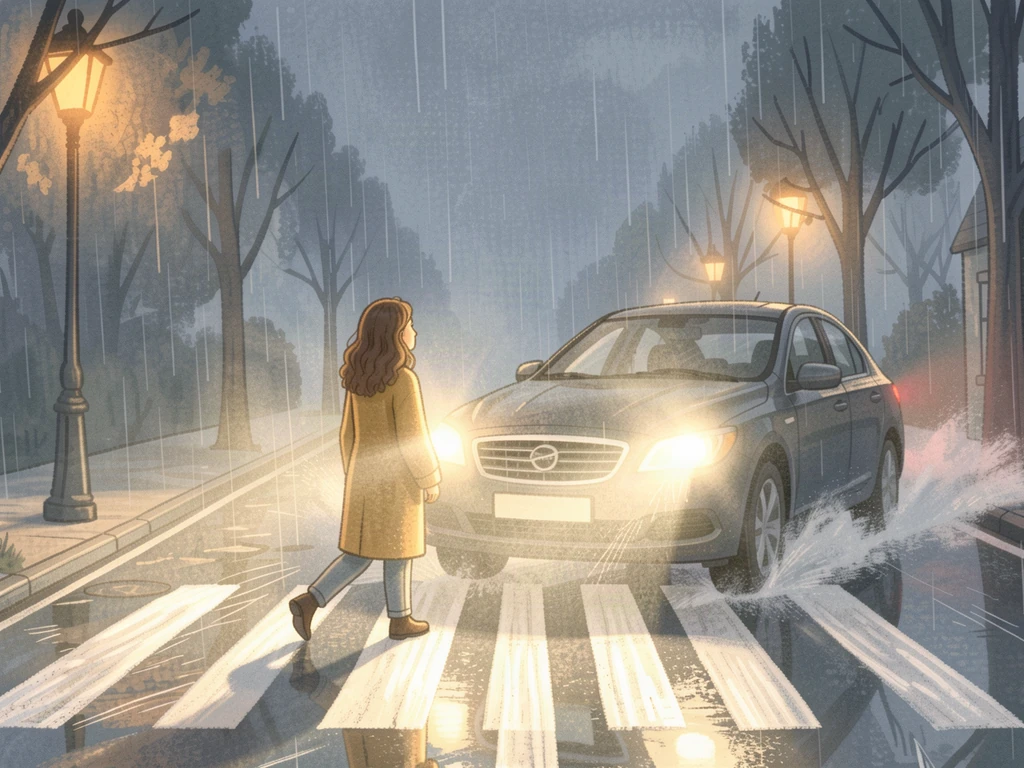
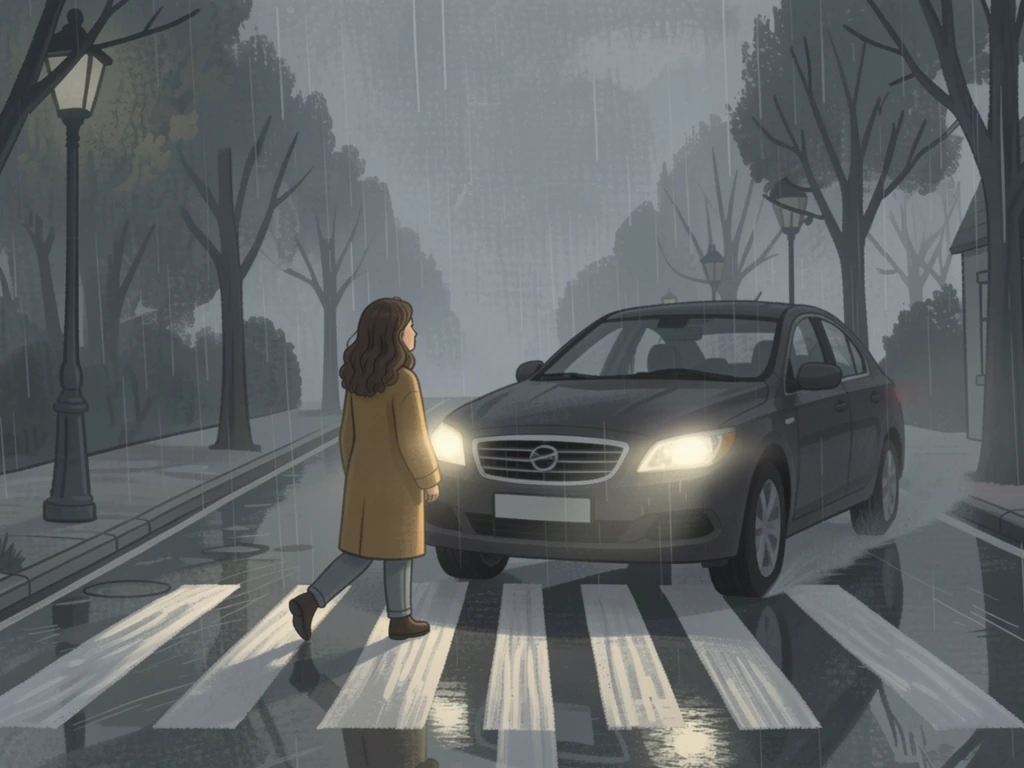
beta3: stage5 girl matches Elena, softer headlights, riddle removed, serif finale panel

diff --git a/beta/index.html b/beta/index.html
@@ -2,6 +2,7 @@
 <html lang="sk">
 <head>
 <meta charset="utf-8">
+<link rel="preconnect" href="https://fonts.googleapis.com"><link rel="preconnect" href="https://fonts.gstatic.com" crossorigin><link href="https://fonts.googleapis.com/css2?family=Cormorant+Garamond:wght@500;600;700&family=Lora:ital,wght@0,400;0,500;1,400&display=swap" rel="stylesheet">
 <meta name="viewport" content="width=device-width,initial-scale=1,viewport-fit=cover">
 <meta name="theme-color" content="#0d0b14">
 <title>Kým sa zobudím / Until I Wake — beta 3</title>
@@ -54,18 +55,25 @@ h1 small{display:block;font-size:.42em;color:#a99bbd;letter-spacing:.22em;text-t
   font:inherit;font-size:16px;font-weight:600;cursor:pointer}
 .ghost{margin-top:10px;background:none;border:1px solid #453b58;color:#c3b7d4;border-radius:12px;
   padding:12px 24px;font:inherit;font-size:14px;cursor:pointer}
-#end{align-items:flex-start;justify-content:flex-end;padding:22px}
-#endInner{max-width:min(470px,94vw);background:rgba(10,9,16,.85);border-radius:18px;padding:22px 24px;
-  text-align:left;color:#f4eee4;backdrop-filter:blur(8px);box-shadow:0 20px 60px #000b}
-#endInner h1{color:#f8f3e9;font-size:clamp(20px,3vw,28px);margin:0;line-height:1.2}
-#endInner h1 small{display:block;margin-top:7px;font-size:11.5px;font-weight:600;letter-spacing:.07em;
-  text-transform:uppercase;color:#c6b9a2}
-#endInner p{font-size:14.5px;line-height:1.62;margin-top:12px;color:#ece5d9}
-#endInner p.last{font-style:italic;font-weight:600;color:#f8f3e9;margin-top:10px}
-#endInner p.sum{font-size:13.8px;color:#d9cfbe;border-left:2px solid #8d7c60;padding-left:12px;margin-top:16px}
-#endInner .creds{font-size:11px;color:#a89c89;margin-top:16px;line-height:1.6}
+#end{align-items:flex-end;justify-content:flex-start;padding:26px}
+#endInner{max-width:min(440px,92vw);padding:26px 28px 22px;text-align:left;
+  font-family:'Lora',Georgia,'Times New Roman',serif;
+  background:linear-gradient(180deg,rgba(12,10,17,.90),rgba(9,8,13,.95));
+  border:1px solid rgba(224,192,138,.28);border-left:3px solid #d9b878;border-radius:4px 16px 16px 4px;
+  box-shadow:0 24px 70px #000c;backdrop-filter:blur(9px)}
+#endInner h1{font-family:'Cormorant Garamond',Georgia,serif;font-weight:600;color:#f7eedd;
+  font-size:clamp(26px,3.6vw,38px);line-height:1.1;margin:0;letter-spacing:.01em}
+#endInner h1 small{display:block;margin-top:10px;font-family:'Lora',Georgia,serif;font-size:10.5px;font-weight:500;
+  letter-spacing:.22em;text-transform:uppercase;color:#c9ab79}
+#endInner p{font-size:14.5px;line-height:1.72;margin-top:13px;color:#e9e1d3}
+#endInner p.last{font-style:italic;color:#f8f2e6;font-size:15.5px;margin-top:16px}
+#endInner p.sum{font-size:13.4px;color:#cfc4b2;margin-top:18px;padding-top:16px;
+  border-top:1px solid rgba(224,192,138,.22);line-height:1.68}
+#endInner p.sum b{color:#e8cf9f;font-weight:500}
+#endInner .creds{font-size:10.5px;letter-spacing:.04em;color:#9d9280;margin-top:18px;line-height:1.7}
+#endInner #bAgain{margin-top:16px}
 @media(max-width:620px){#end{align-items:center;justify-content:flex-end;padding:10px}
- #endInner{max-width:97vw;padding:15px 16px}#endInner p{font-size:13px}#endInner p.sum{font-size:12.4px}}
+ #endInner{max-width:97vw;padding:18px 18px 16px}#endInner p{font-size:13.2px}#endInner p.sum{font-size:12.2px}}
 
 .rid{max-width:640px;background:rgba(9,8,13,.68);padding:24px 28px 20px;border-radius:22px;
   box-shadow:0 18px 60px #000a;backdrop-filter:blur(6px)}
@@ -112,7 +120,6 @@ h1 small{display:block;font-size:.42em;color:#a99bbd;letter-spacing:.22em;text-t
   </div>
 </div>
 
-<div id="riddle" class="screen"><div class="rid"><h1 id="ridQ"></h1><div id="ridA" class="chips"></div><p id="ridMsg" class="ridmsg"></p></div></div>
 <div id="end" class="screen"><div id="endInner"></div></div>
 
 <script>
@@ -147,7 +154,7 @@ const D={stages:[
   o:{sk:'…mení sa jej pulz. Zavolajte rodinu.',en:'…her pulse is changing. Call the family.'},
   in:{sk:'Chodba bola dlhá a on sa tváril, že ide okolo. V ruke zložený papierik.',en:'The corridor was long and he pretended to walk past. A folded note in his hand.'},
   out:{sk:'Napísal, čo sa nikdy neodvážil povedať nahlas. Ten list som si nechala dvadsať rokov.',en:'He wrote what he never dared to say aloud. I kept that letter for twenty years.'},
-  h:{x:15,y:82.5,r:5,n:{sk:'Nemocničný náramok',en:'A hospital wristband'},w:{sk:'Leží pri školskej lavici. Niekto ho stratil na ceste z izby 214.',en:'It lies by a school bench. Someone lost it on the way out of room 214.'}}},
+  h:{x:49,y:49,r:5,n:{sk:'Nemocničný náramok',en:'A hospital wristband'},w:{sk:'Na zápästí dievčaťa je tenký biely náramok z izby 214.',en:'On the girl’s wrist there is a thin white band from room 214.'}}},
  {img:'assets/s06.webp',t:{sk:'Odchod z domu',en:'Leaving Home'},
   o:{sk:'„Ema zaspala na dvoch stoličkách pri dverách.“',en:'“Ema fell asleep on two chairs by the door.”'},
   in:{sk:'Prázdny byt, krabice, nový začiatok.',en:'An empty flat, boxes, a new beginning.'},
@@ -172,7 +179,7 @@ const D={stages:[
   o:{sk:'„…Mami? Prosím, zobuď sa.“',en:'“…Mom? Please wake up.”'},
   in:{sk:'Prechod, dážď, mokrý asfalt. Skoro doma.',en:'A crossing, rain, wet asphalt. Almost home.'},
   out:{sk:'Svetlá. Zvuk, akoby sa trhalo celé nebo. A potom—',en:'Lights. A sound like the sky tearing. And then—'},
-  h:{x:67.5,y:57,r:11,n:{sk:'Auto z boku',en:'A car from the side'},w:{sk:'Kráčala som cez prechod a pozerala pred seba. Auto prišlo z boku.',en:'I was walking across the crossing, looking straight ahead. The car came from the side.'}}},
+  h:{x:64,y:60,r:11,n:{sk:'Auto z boku',en:'A car from the side'},w:{sk:'Kráčala som cez prechod a pozerala pred seba. Auto prišlo z boku a ja som ho nevidela.',en:'I was walking across the crossing, looking straight ahead. The car came from the side and I never saw it.'}}},
 ]};
 
 const T={
@@ -184,7 +191,7 @@ const T={
   last:'I am awake. You are all here. Every stage of my life was leading me back to you.',
   ep:'Elena, 38. Wife of Adam. Mother of Ema and Tom. After eleven days in room 214 she woke up.',
   credits:'The End',credits2:'Human: concept, story, Elena’s character, game direction. Made with AI assistance.',
-  sum:'What happened: on a rainy evening Elena was walking home across the pedestrian crossing. A car came out of the mist behind her - the driver never saw her in the rain. It hit her on the crossing. She lay in a coma in room 214 for eleven days. What she lived through: her mind walked back through her whole life - the cradle, kindergarten, first love, the wedding, the children, the road home. In every memory one thing did not belong, and exactly those things led her back. How it ended: she woke up. Adam, Ema and Tomi were sitting beside her bed.',
+  sum:'<b>What happened:</b> on a rainy evening Elena was walking home across the pedestrian crossing. A car came out of the mist behind her - the driver never saw her in the rain. It hit her on the crossing. She lay in a coma in room 214 for eleven days. <b>What she lived through:</b> her mind walked back through her whole life - the cradle, kindergarten, first love, the wedding, the children, the road home. In every memory one thing did not belong, and exactly those things led her back. <b>How it ended:</b> she woke up. Adam, Ema and Tomi were sitting beside her bed.',
   ridQ:'One last question before you wake up: what took Elena off that street?',
   ridA:['The rain','A car','The hospital'],
   ridOk:'Yes. Two headlights, wet asphalt — and then room 214.',
@@ -198,7 +205,7 @@ const T={
   last:'Som hore. Ste tu všetci. Každá etapa môjho života ma viedla späť k vám.',
   ep:'Elena, 38 rokov. Manželka Adama. Mama Emy a Tomiho. Po jedenástich dňoch v izbe 214 sa prebudila.',
   credits:'Koniec',credits2:'Človek: nápad, príbeh, postava Eleny, smerovanie hry. Vytvorené s pomocou AI.',
-  sum:'Čo sa stalo: Elena sa v daždivom večeri vracala domov cez prechod pre chodcov. Za jej chrbtom sa z hmly vynorilo auto — v daždi ju vodič nevidel. Zrazil ju na prechode. Jedenásť dní ležala v kóme v izbe 214. Čo prežila: jej myseľ prešla celým jej životom — kolíska, škôlka, prvá láska, svadba, deti, cesta domov. V každej spomienke bola jedna vec, ktorá tam nepatrila, a práve tie ju viedli späť. Ako to dopadlo: prebudila sa. Pri posteli sedeli Adam, Ema a Tomi.',
+  sum:'<b>Čo sa stalo:</b> Elena sa v daždivom večeri vracala domov cez prechod pre chodcov. Za jej chrbtom sa z hmly vynorilo auto — v daždi ju vodič nevidel. Zrazil ju na prechode. Jedenásť dní ležala v kóme v izbe 214. <b>Čo prežila:</b> jej myseľ prešla celým jej životom — kolíska, škôlka, prvá láska, svadba, deti, cesta domov. V každej spomienke bola jedna vec, ktorá tam nepatrila, a práve tie ju viedli späť. <b>Ako to dopadlo:</b> prebudila sa. Pri posteli sedeli Adam, Ema a Tomi.',
   ridQ:'Ešte jedna otázka, kým sa zobudíš: čo vzalo Elenu z tej cesty?',
   ridA:['Dážď','Auto','Nemocnica'],
   ridOk:'Áno. Dve svetlá, mokrý asfalt — a potom izba 214.',
@@ -313,7 +320,7 @@ function found(el,e){
   },650);
   setTimeout(()=>{
     if(cur+1<D.stages.length)buildStage(cur+1);
-    else buildRiddle();
+    else finale();
   },1750);
 }
 function wrong(){
@@ -329,29 +336,6 @@ $('#hintBtn').onclick=()=>{
   if(hs){hs.classList.add('ping');setTimeout(()=>hs.classList.remove('ping'),1200)}
 };
 
-function buildRiddle(){
-  const d=D.stages[D.stages.length-1];
-  $('#riddle').style.backgroundImage="url('"+d.img+"')";
-  $('#ridQ').textContent=t('ridQ');
-  const msg=$('#ridMsg'); msg.textContent='';
-  const box=$('#ridA'); box.innerHTML='';
-  t('ridA').forEach((label,i)=>{
-    const b=document.createElement('button');
-    b.textContent=label;
-    b.onclick=()=>{
-      if(i===1){
-        b.classList.add('ok'); msg.textContent=t('ridOk'); sfx('open');
-        box.querySelectorAll('button').forEach(x=>x.disabled=true);
-        setTimeout(()=>finale(),1700);
-      }else{
-        b.classList.add('bad'); msg.textContent=t('ridNo'); sfx('miss');
-        setTimeout(()=>b.classList.remove('bad'),460);
-      }
-    };
-    box.appendChild(b);
-  });
-  show('riddle');
-}
 
 /* ---------- koniec ---------- */
 function finale(){
